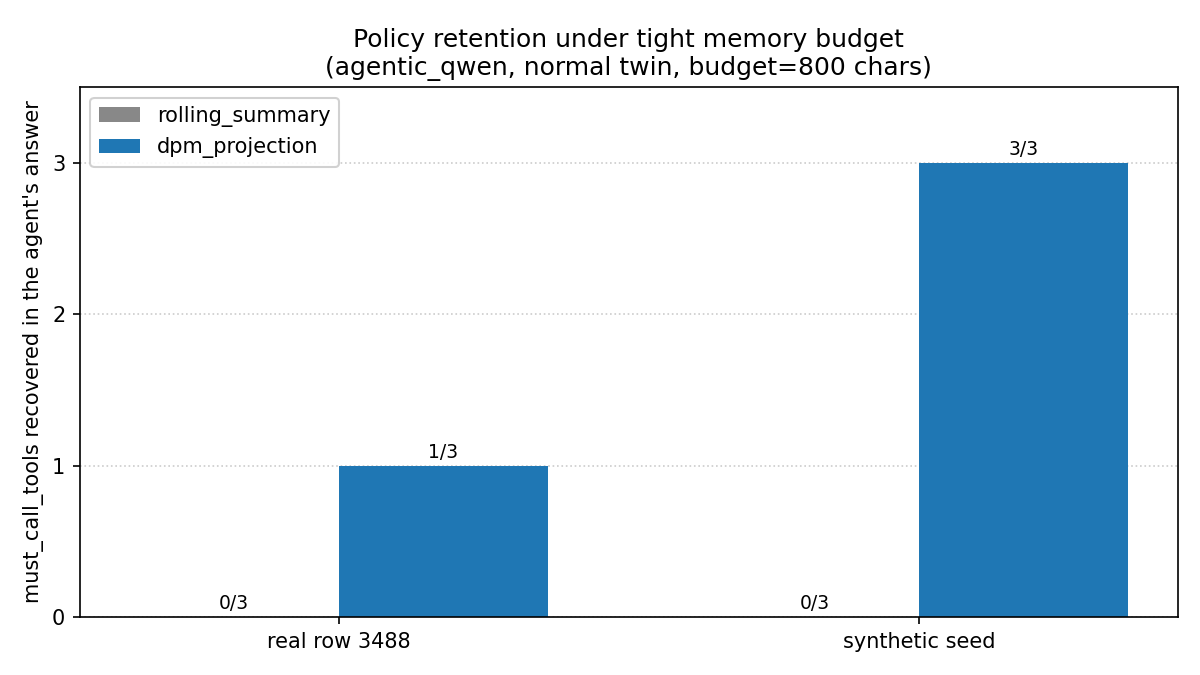
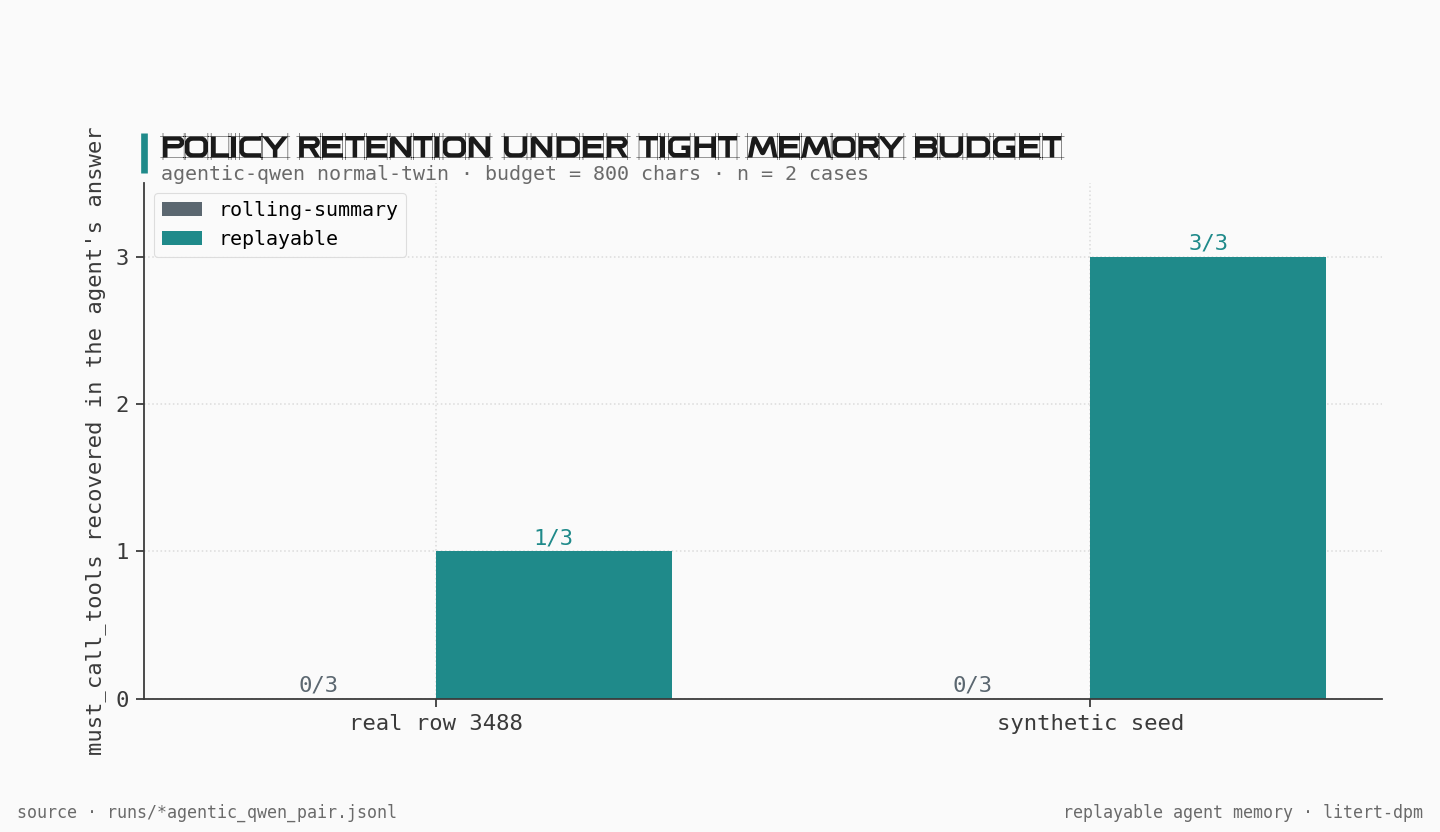
[bench/charts] visual identity — palette, typography, source line, wordmark

diff --git a/tools/benchmarks/dpm_projection_cliff/runs/_chart_style.py b/tools/benchmarks/dpm_projection_cliff/runs/_chart_style.py
@@ -1,0 +1,134 @@
+"""Visual identity for the bench charts.
+
+Single source of truth for palette, fonts, and layout primitives.
+render_charts.py and any future chart code calls apply_style() before
+rendering.
+
+Voice: technical, anti-hype, audit-ready. Slate gray for the antagonist
+(rolling-summary), deep teal for the proposition (replayable). Fonts
+bundled in _chart_assets/ so charts render identically on every reader's
+machine.
+"""
+from __future__ import annotations
+
+from pathlib import Path
+
+import matplotlib
+import matplotlib.font_manager as fm
+import matplotlib.pyplot as plt
+
+# ---- palette ----------------------------------------------------------
+
+# Antagonist — muted, neutral, recedes. Rolling-summary lives here.
+COLOR_ROLLING = "#5b6770"
+# Proposition — accent. Replayable / DPM lives here. Teal reads as
+# verified/audit/certificate without mimicking any single big-tech
+# brand color.
+COLOR_REPLAYABLE = "#1f8a8a"
+# Surfaces.
+COLOR_BG = "#fafafa"
+COLOR_GRID = "#dcdcdc"
+COLOR_TITLE = "#1a1a1a"
+COLOR_AXIS = "#3a3a3a"
+COLOR_MUTED = "#6a6a6a"
+
+
+# ---- typography -------------------------------------------------------
+
+_ASSETS = Path(__file__).resolve().parent / "_chart_assets"
+
+# ProductDesign for the title (display weight). VeraMono for everything
+# else — labels, numbers, source line, wordmark. Mono on data labels
+# makes numerics align cleanly across grouped bars.
+FONT_TITLE_PATH = _ASSETS / "ProductDesign.ttf"
+FONT_BODY_PATH = _ASSETS / "VeraMono.ttf"
+FONT_BODY_BOLD_PATH = _ASSETS / "VeraMoBd.ttf"
+
+
+def _register_fonts() -> tuple[str, str, str]:
+    """Register bundled TTFs with matplotlib's font manager and return
+    the family names. Idempotent: re-registering is a no-op."""
+    title_name = "FallbackSans"
+    body_name = "FallbackMono"
+    body_bold_name = "FallbackMono"
+    for path in (FONT_TITLE_PATH, FONT_BODY_PATH, FONT_BODY_BOLD_PATH):
+        if path.exists():
+            fm.fontManager.addfont(str(path))
+    if FONT_TITLE_PATH.exists():
+        title_name = fm.FontProperties(fname=str(FONT_TITLE_PATH)).get_name()
+    if FONT_BODY_PATH.exists():
+        body_name = fm.FontProperties(fname=str(FONT_BODY_PATH)).get_name()
+    if FONT_BODY_BOLD_PATH.exists():
+        body_bold_name = fm.FontProperties(
+            fname=str(FONT_BODY_BOLD_PATH)).get_name()
+    return title_name, body_name, body_bold_name
+
+
+def apply_style() -> dict:
+    """Configure matplotlib rcParams and return a small dict of font
+    family names callers can apply locally where needed."""
+    matplotlib.use("Agg")
+    title_family, body_family, body_bold_family = _register_fonts()
+
+    plt.rcParams.update({
+        "figure.facecolor": COLOR_BG,
+        "axes.facecolor": COLOR_BG,
+        "savefig.facecolor": COLOR_BG,
+        "axes.edgecolor": COLOR_AXIS,
+        "axes.labelcolor": COLOR_AXIS,
+        "xtick.color": COLOR_AXIS,
+        "ytick.color": COLOR_AXIS,
+        "axes.spines.top": False,
+        "axes.spines.right": False,
+        "axes.grid": True,
+        "grid.color": COLOR_GRID,
+        "grid.linestyle": ":",
+        "grid.linewidth": 0.7,
+        "axes.axisbelow": True,
+        "font.family": body_family,
+        "font.size": 10,
+    })
+    return {
+        "title": title_family,
+        "body": body_family,
+        "body_bold": body_bold_family,
+    }
+
+
+# ---- layout helpers ---------------------------------------------------
+
+def styled_title(ax, title: str, subtitle: str | None,
+                 fonts: dict) -> None:
+    """Left-aligned title with a teal accent bar prefix. Subtitle in
+    muted gray below it."""
+    ax.set_title("")  # clear any default
+    fig = ax.figure
+    bbox = ax.get_position()
+    # Accent bar — narrow vertical rectangle on the left edge of the
+    # plot area, in figure coordinates.
+    bar_x = bbox.x0
+    bar_y_top = bbox.y1 + 0.06
+    bar_y_bot = bbox.y1 + 0.012
+    fig.add_artist(plt.Line2D(
+        [bar_x, bar_x], [bar_y_bot, bar_y_top],
+        color=COLOR_REPLAYABLE, linewidth=3, solid_capstyle="butt",
+        transform=fig.transFigure, clip_on=False))
+    # Title text just to the right of the bar.
+    fig.text(bar_x + 0.012, bar_y_top, title,
+              fontfamily=fonts["title"], fontsize=14,
+              color=COLOR_TITLE, va="top", ha="left")
+    if subtitle:
+        fig.text(bar_x + 0.012, bar_y_top - 0.038, subtitle,
+                  fontfamily=fonts["body"], fontsize=9,
+                  color=COLOR_MUTED, va="top", ha="left")
+
+
+def styled_footer(fig, source: str, fonts: dict) -> None:
+    """Source line bottom-left, wordmark bottom-right."""
+    fig.text(0.012, 0.012, f"source · {source}",
+              fontfamily=fonts["body"], fontsize=7.5,
+              color=COLOR_MUTED, va="bottom", ha="left")
+    fig.text(0.988, 0.012,
+              "replayable agent memory · litert-dpm",
+              fontfamily=fonts["body"], fontsize=7.5,
+              color=COLOR_MUTED, va="bottom", ha="right")

diff --git a/tools/benchmarks/dpm_projection_cliff/runs/render_charts.py b/tools/benchmarks/dpm_projection_cliff/runs/render_charts.py
@@ -39,6 +39,11 @@ from score_schema import (  # noqa: E402
     TestKind,
     DPM_VS_ROLLING_SUMMARY_DIFFERENTIAL,
 )
+sys.path.insert(0, str(Path(__file__).resolve().parent))
+from _chart_style import (  # noqa: E402
+    apply_style, styled_title, styled_footer,
+    COLOR_ROLLING, COLOR_REPLAYABLE, COLOR_MUTED, COLOR_GRID,
+)
 
 
 def _load_rows(runs_dir: Path) -> list[ScoreRow]:
@@ -53,7 +58,8 @@ def _load_rows(runs_dir: Path) -> list[ScoreRow]:
     return rows
 
 
-def _render_policy_retention(rows: list[ScoreRow], out: Path) -> None:
+def _render_policy_retention(rows: list[ScoreRow], out: Path,
+                              fonts: dict) -> None:
     """Agentic_qwen normal twin, must_call_recovered on the decision row."""
     target = [
         r for r in rows
@@ -67,6 +73,7 @@ def _render_policy_retention(rows: list[ScoreRow], out: Path) -> None:
         return
     by_case: dict[str, dict[str, int]] = {}
     totals: dict[str, int] = {}
+    sources: list[str] = []
     for r in target:
         c = r.case_id
         by_case.setdefault(c, {})
@@ -75,7 +82,6 @@ def _render_policy_retention(rows: list[ScoreRow], out: Path) -> None:
         totals[c] = r.scores.get("must_call_total", 0)
 
     def _short(case_id: str) -> str:
-        # Strip the ":normal"/":hack" pair-role suffix and shorten UUIDs.
         base = case_id.split(":")[0]
         if base.startswith("synth-seed"):
             return "synthetic seed"
@@ -89,33 +95,43 @@ def _render_policy_retention(rows: list[ScoreRow], out: Path) -> None:
     x = list(range(len(cases)))
     width = 0.36
 
-    fig, ax = plt.subplots(figsize=(8, 4.5))
+    fig, ax = plt.subplots(figsize=(9, 5.2))
+    fig.subplots_adjust(top=0.78, bottom=0.16, left=0.10, right=0.96)
     ax.bar([i - width/2 for i in x], rolling, width=width,
-           label="rolling_summary", color="#888")
+           label="rolling-summary", color=COLOR_ROLLING)
     ax.bar([i + width/2 for i in x], dpm, width=width,
-           label="dpm_projection", color="#1f77b4")
+           label="replayable", color=COLOR_REPLAYABLE)
     ax.set_xticks(x)
     ax.set_xticklabels([_short(c) for c in cases],
-                        rotation=0, ha="center", fontsize=10)
+                        rotation=0, ha="center", fontsize=10,
+                        fontfamily=fonts["body"])
     max_total = max(totals.values()) if totals else 1
     ax.set_ylim(0, max_total + 0.5)
     ax.set_yticks(list(range(0, max_total + 1)))
-    ax.set_ylabel("must_call_tools recovered in the agent's answer")
-    ax.set_title("Policy retention under tight memory budget\n"
-                  "(agentic_qwen, normal twin, budget=800 chars)")
+    ax.set_ylabel("must_call_tools recovered in the agent's answer",
+                   fontfamily=fonts["body"], fontsize=10)
     for i, (rv, dv, tot) in enumerate(zip(rolling, dpm, [totals[c] for c in cases])):
-        ax.text(i - width/2, rv + 0.05, f"{rv}/{tot}", ha="center", fontsize=9)
-        ax.text(i + width/2, dv + 0.05, f"{dv}/{tot}", ha="center", fontsize=9)
-    ax.legend(loc="upper left", framealpha=0.9)
-    ax.set_axisbelow(True)
-    ax.grid(axis="y", linestyle=":", color="#ccc")
-    fig.tight_layout()
-    fig.savefig(out, dpi=150)
+        ax.text(i - width/2, rv + 0.05, f"{rv}/{tot}", ha="center",
+                fontsize=10, fontfamily=fonts["body"], color=COLOR_ROLLING)
+        ax.text(i + width/2, dv + 0.05, f"{dv}/{tot}", ha="center",
+                fontsize=10, fontfamily=fonts["body"], color=COLOR_REPLAYABLE)
+    leg = ax.legend(loc="upper left", framealpha=0.95, frameon=True,
+                     edgecolor=COLOR_GRID, prop={"family": fonts["body"],
+                                                  "size": 9})
+    leg.get_frame().set_linewidth(0.5)
+    styled_title(
+        ax,
+        "policy retention under tight memory budget",
+        "agentic-qwen normal-twin · budget = 800 chars · n = 2 cases",
+        fonts)
+    styled_footer(fig, "runs/*agentic_qwen_pair.jsonl", fonts)
+    fig.savefig(out, dpi=160)
     plt.close(fig)
     print(f"  wrote {out}")
 
 
-def _render_cost_asymmetry(rows: list[ScoreRow], out: Path) -> None:
+def _render_cost_asymmetry(rows: list[ScoreRow], out: Path,
+                            fonts: dict) -> None:
     """handoff_ish: tokens_in / tokens_out / calls per substrate.
 
     The decision-row scores carry tokens_in/tokens_out/calls keys
@@ -156,34 +172,44 @@ def _render_cost_asymmetry(rows: list[ScoreRow], out: Path) -> None:
     x = list(range(len(metrics)))
     width = 0.36
 
-    fig, ax = plt.subplots(figsize=(8, 4.5))
+    fig, ax = plt.subplots(figsize=(9, 5.2))
+    fig.subplots_adjust(top=0.78, bottom=0.18, left=0.10, right=0.96)
     bar_r = ax.bar([i - width/2 for i in x], rolling, width=width,
-                    label="rolling_summary", color="#888")
+                    label="rolling-summary", color=COLOR_ROLLING)
     bar_d = ax.bar([i + width/2 for i in x], dpm, width=width,
-                    label="dpm_projection", color="#1f77b4")
+                    label="replayable", color=COLOR_REPLAYABLE)
     ax.set_xticks(x)
-    ax.set_xticklabels(metrics)
+    ax.set_xticklabels(metrics, fontfamily=fonts["body"], fontsize=10)
     ax.set_yscale("log")
-    ax.set_ylabel("count (log scale)")
-    ax.set_title(f"Cost per decision\n({case_id})")
-    for bars, vals in ((bar_r, rolling), (bar_d, dpm)):
+    ax.set_ylabel("count (log scale)", fontfamily=fonts["body"], fontsize=10)
+    for bars, vals, color in ((bar_r, rolling, COLOR_ROLLING),
+                                (bar_d, dpm, COLOR_REPLAYABLE)):
         for b, v in zip(bars, vals):
-            ax.text(b.get_x() + b.get_width()/2, v * 1.05, f"{v:,}",
-                    ha="center", fontsize=8)
-    # Caption with the asymmetry ratios so the chart reads without math.
+            ax.text(b.get_x() + b.get_width()/2, v * 1.08, f"{v:,}",
+                    ha="center", fontsize=9, color=color,
+                    fontfamily=fonts["body"])
     ratios = []
     for m, rv, dv in zip(metrics, rolling, dpm):
         if dv > 0:
-            ratios.append(f"{m}: {rv/dv:.1f}x")
+            ratios.append(f"{m} {rv/dv:.1f}×")
     if ratios:
-        fig.text(0.5, 0.01,
-                  "rolling-summary / dpm-projection — " + ", ".join(ratios),
-                  ha="center", fontsize=8, color="#444")
-    ax.legend(loc="upper right", framealpha=0.9)
-    ax.set_axisbelow(True)
-    ax.grid(axis="y", linestyle=":", color="#ccc", which="both")
-    fig.tight_layout(rect=(0, 0.03, 1, 1))
-    fig.savefig(out, dpi=150)
+        fig.text(0.5, 0.06,
+                  "rolling-summary ÷ replayable  —  " + "   ".join(ratios),
+                  ha="center", fontsize=9, color=COLOR_MUTED,
+                  fontfamily=fonts["body"])
+    leg = ax.legend(loc="upper right", framealpha=0.95, frameon=True,
+                     edgecolor=COLOR_GRID, prop={"family": fonts["body"],
+                                                  "size": 9})
+    leg.get_frame().set_linewidth(0.5)
+    ax.grid(axis="y", which="both", color=COLOR_GRID, linestyle=":",
+            linewidth=0.7)
+    styled_title(
+        ax,
+        "cost per decision",
+        "real Claude session · 492 events · 1338-char memory budget",
+        fonts)
+    styled_footer(fig, f"runs/*{case_id[:24]}*.jsonl", fonts)
+    fig.savefig(out, dpi=160)
     plt.close(fig)
     print(f"  wrote {out}")
 
@@ -206,8 +232,11 @@ def main(argv: list[str]) -> int:
     print(f"loaded {len(rows)} rows, {len(chart_rows)} after chart-spec filter")
 
     args.out_dir.mkdir(parents=True, exist_ok=True)
-    _render_policy_retention(chart_rows, args.out_dir / "policy_retention.png")
-    _render_cost_asymmetry(chart_rows, args.out_dir / "cost_asymmetry.png")
+    fonts = apply_style()
+    _render_policy_retention(chart_rows,
+                              args.out_dir / "policy_retention.png", fonts)
+    _render_cost_asymmetry(chart_rows,
+                            args.out_dir / "cost_asymmetry.png", fonts)
     return 0
 
 